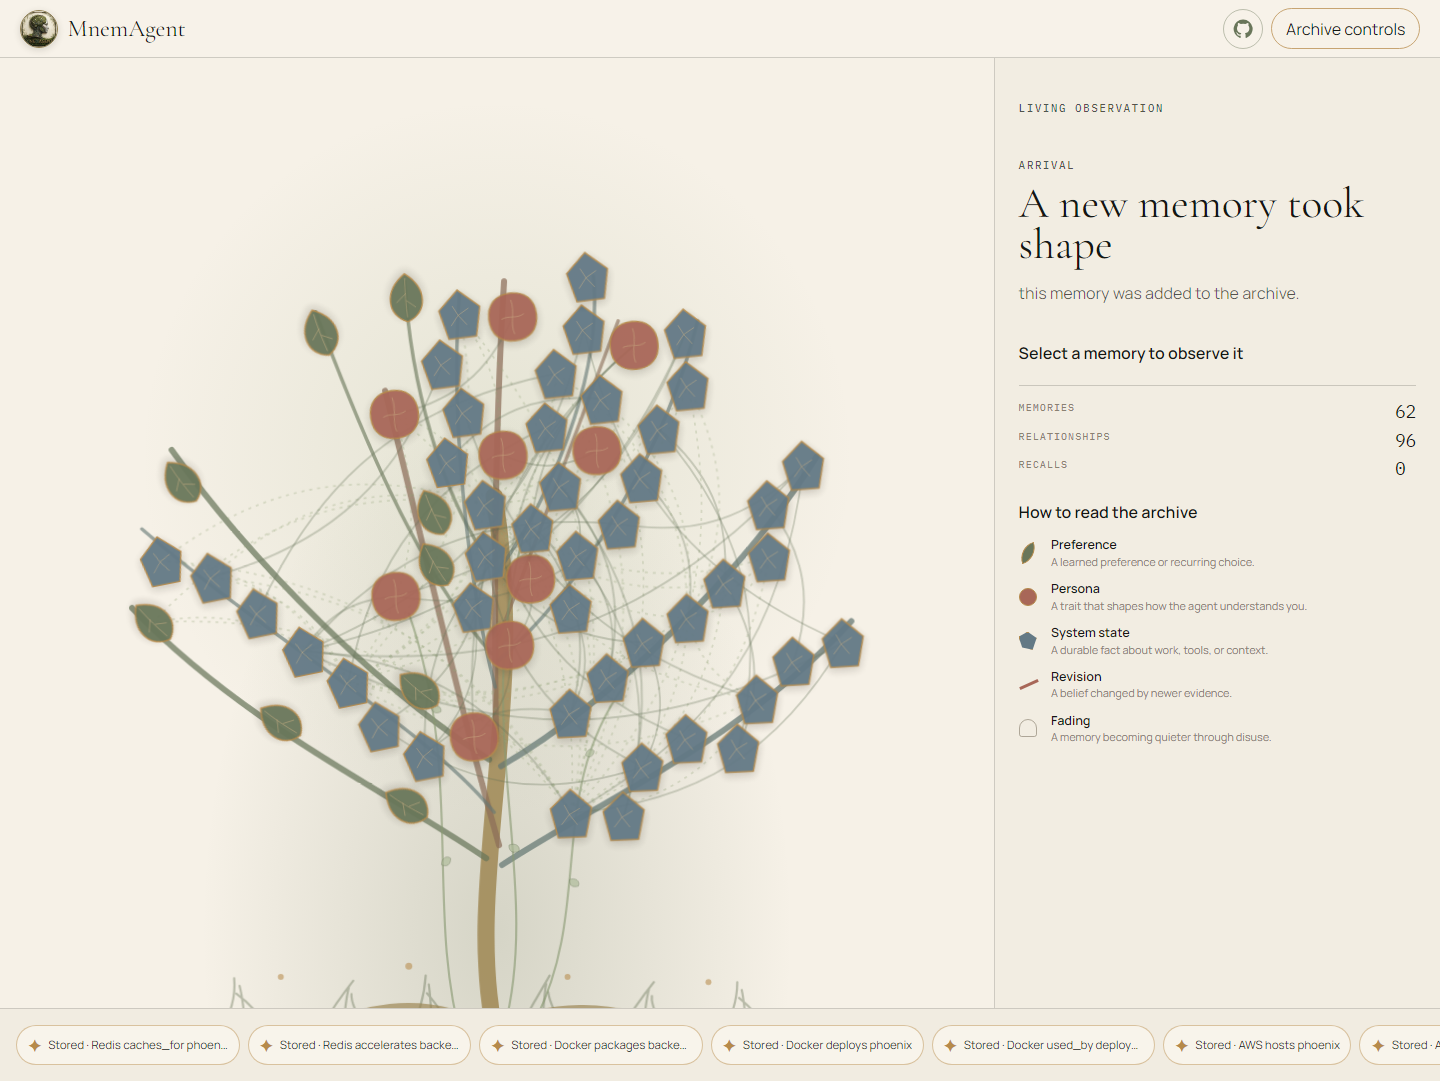
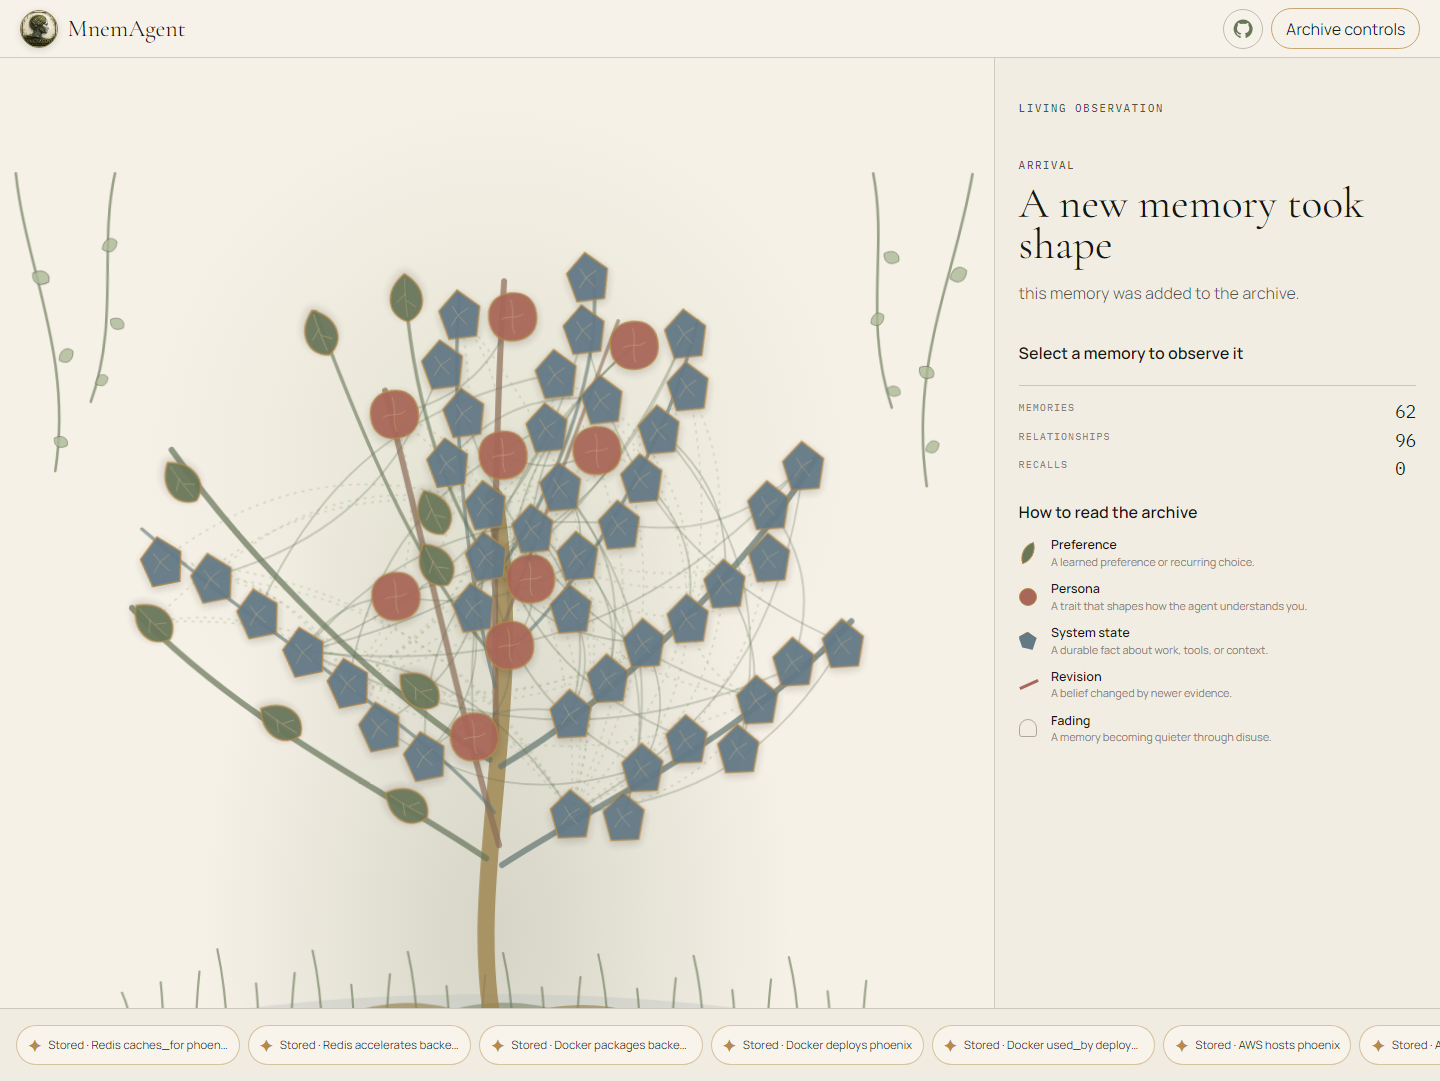
feat: compose serene forest memory focus

diff --git a/openclaw-harness/src/public/scripts/render/living-structure.js b/openclaw-harness/src/public/scripts/render/living-structure.js
@@ -1,85 +1,9 @@
 import { memoryAriaLabel, memoryFormPath, memoryVeinPath, shapeClass } from './memory-form.js';
-import { tendrilClass, tendrilStrokeWidth } from './tendril.js';
+import { renderForestScene } from './forest-scene.js';
+import { relationshipFocusState, tendrilClass, tendrilStrokeWidth } from './tendril.js';
 import { curvePath } from '../tree-geometry.js';
 
 const CATEGORY_COLOR = Object.freeze({ preference: 'var(--living-moss)', persona: 'var(--clay-rose)', system_state: 'var(--mineral-blue)' });
-const GROUND_GRASS = Object.freeze([
-  { id: 'grass-west', x: 250, y: 653, spread: 27, height: 42, lean: -12 },
-  { id: 'grass-left', x: 348, y: 649, spread: 23, height: 36, lean: 10 },
-  { id: 'grass-heart-left', x: 438, y: 657, spread: 25, height: 48, lean: -7 },
-  { id: 'grass-heart-right', x: 548, y: 654, spread: 26, height: 45, lean: 8 },
-  { id: 'grass-east', x: 650, y: 652, spread: 24, height: 38, lean: 11 },
-  { id: 'grass-far-east', x: 755, y: 657, spread: 28, height: 43, lean: -10 },
-]);
-const GROUND_MOSS = Object.freeze([
-  { id: 'moss-west', x: 214, y: 668, rx: 78, ry: 12 },
-  { id: 'moss-heart', x: 492, y: 668, rx: 122, ry: 15 },
-  { id: 'moss-east', x: 800, y: 670, rx: 88, ry: 13 },
-]);
-const SEED_HEADS = Object.freeze([
-  { id: 'seed-west', x: 285, y: 610, r: 3 },
-  { id: 'seed-heart-left', x: 414, y: 602, r: 3.5 },
-  { id: 'seed-heart-right', x: 574, y: 610, r: 3 },
-  { id: 'seed-east', x: 716, y: 614, r: 3 },
-]);
-const GARDEN_VINES = Object.freeze([
-  { id: 'vine-left', points: [[468, 660], [430, 560], [470, 455], [414, 334]] },
-  { id: 'vine-center', points: [[510, 650], [550, 535], [475, 420], [530, 274]] },
-  { id: 'vine-right', points: [[542, 642], [600, 555], [552, 470], [632, 388]] },
-]);
-const VINE_LEAVES = Object.freeze([
-  { id: 'leaf-left-low', x: 447, y: 525, angle: -36, scale: .75 },
-  { id: 'leaf-left-high', x: 437, y: 405, angle: 28, scale: .7 },
-  { id: 'leaf-center-low', x: 515, y: 510, angle: 32, scale: .78 },
-  { id: 'leaf-center-high', x: 508, y: 360, angle: -34, scale: .68 },
-  { id: 'leaf-right-low', x: 576, y: 536, angle: 37, scale: .74 },
-  { id: 'leaf-right-high', x: 592, y: 442, angle: -28, scale: .66 },
-]);
-
-function gardenBounds(tree = {}) {
-  return { width: Math.max(320, Number(tree.bounds?.width) || 1000), height: Math.max(480, Number(tree.bounds?.height) || 720) };
-}
-
-function gardenPoint(x, y, bounds) { return { x: x * bounds.width / 1000, y: y * bounds.height / 720 }; }
-
-function grassPath(grass, bounds) {
-  const base = gardenPoint(grass.x, grass.y, bounds);
-  const sx = bounds.width / 1000;
-  const sy = bounds.height / 720;
-  const spread = grass.spread * sx;
-  const height = grass.height * sy;
-  const lean = grass.lean * sx;
-  return `M${base.x - spread},${base.y} Q${base.x - spread * .35},${base.y - height * .52} ${base.x + lean},${base.y - height} M${base.x},${base.y} Q${base.x + lean * .25},${base.y - height * .62} ${base.x + lean * .55},${base.y - height * .86} M${base.x + spread},${base.y} Q${base.x + spread * .32},${base.y - height * .48} ${base.x + lean * .82},${base.y - height * .72}`;
-}
-
-function gardenCurvePath(vine, bounds) {
-  const [start, control1, control2, end] = vine.points.map(([x, y]) => gardenPoint(x, y, bounds));
-  return `M${start.x},${start.y} C${control1.x},${control1.y} ${control2.x},${control2.y} ${end.x},${end.y}`;
-}
-
-function leafTransform(leaf, bounds) {
-  const point = gardenPoint(leaf.x, leaf.y, bounds);
-  return `translate(${point.x},${point.y}) rotate(${leaf.angle}) scale(${leaf.scale})`;
-}
-
-function renderGarden(world, tree) {
-  const bounds = gardenBounds(tree);
-  const ground = world.select('g.groundcover');
-  ground.selectAll('path.ground-grass').data(GROUND_GRASS, d => d.id).join('path')
-    .attr('class', 'ground-grass').attr('d', d => grassPath(d, bounds)).attr('fill', 'none').attr('aria-hidden', 'true');
-  ground.selectAll('ellipse.ground-moss').data(GROUND_MOSS, d => d.id).join('ellipse')
-    .attr('class', 'ground-moss').attr('cx', d => gardenPoint(d.x, d.y, bounds).x).attr('cy', d => gardenPoint(d.x, d.y, bounds).y)
-    .attr('rx', d => d.rx * bounds.width / 1000).attr('ry', d => d.ry * bounds.height / 720).attr('aria-hidden', 'true');
-  ground.selectAll('circle.seed-head').data(SEED_HEADS, d => d.id).join('circle')
-    .attr('class', 'seed-head').attr('cx', d => gardenPoint(d.x, d.y, bounds).x).attr('cy', d => gardenPoint(d.x, d.y, bounds).y)
-    .attr('r', d => d.r * bounds.width / 1000).attr('aria-hidden', 'true');
-
-  const vines = world.select('g.vines');
-  vines.selectAll('path.garden-vine').data(GARDEN_VINES, d => d.id).join('path')
-    .attr('class', 'garden-vine').attr('d', d => gardenCurvePath(d, bounds)).attr('fill', 'none').attr('aria-hidden', 'true');
-  vines.selectAll('path.vine-leaf').data(VINE_LEAVES, d => d.id).join('path')
-    .attr('class', 'vine-leaf').attr('d', 'M0,0 C5,-7 13,-7 15,0 C10,7 4,7 0,0Z').attr('transform', d => leafTransform(d, bounds)).attr('aria-hidden', 'true');
-}
 
 function d3Global() {
   if (!globalThis.d3) throw new Error('D3 must be loaded before the Living Archive renderer');
@@ -90,7 +14,7 @@ export function createLivingStructure(svgElement, { onSelect = () => {}, onTrace
   const d3 = d3Global();
   const svg = d3.select(svgElement);
   const world = svg.select('#archiveWorld');
-  const layers = ['groundcover', 'roots', 'trunk', 'branches', 'vines', 'tendrils', 'memories', 'effects', 'annotations'];
+  const layers = ['canopy', 'water', 'groundcover', 'roots', 'trunk', 'branches', 'tendrils', 'memories', 'effects', 'annotations'];
   for (const name of layers) if (world.select(`g.${name}`).empty()) world.append('g').attr('class', name);
 
   function render(snapshot = {}, layout = { nodes: [], paths: [] }, viewState = {}) {
@@ -99,9 +23,10 @@ export function createLivingStructure(svgElement, { onSelect = () => {}, onTrace
     const nodeById = new Map(layout.nodes.map(node => [String(node.id), node]));
     const selectedId = viewState.selectedMemoryId == null ? null : String(viewState.selectedMemoryId);
     const related = new Set((viewState.relatedMemoryIds || []).map(String));
+    svg.classed('has-memory-focus', Boolean(selectedId));
 
     const tree = layout.tree || { root: { paths: [] }, trunk: null, branches: [] };
-    renderGarden(world, tree);
+    renderForestScene(world, tree);
     world.select('g.roots').selectAll('path.root-line').data(tree.root?.paths || [], d => d.id).join('path')
       .attr('class', 'root-line').attr('d', curvePath).attr('aria-hidden', 'true');
     world.select('g.trunk').selectAll('path.trunk-line').data(tree.trunk ? [tree.trunk] : [], d => d.id).join('path')
@@ -115,7 +40,7 @@ export function createLivingStructure(svgElement, { onSelect = () => {}, onTrace
       enter => enter.append('path'),
       update => update,
       exit => exit.remove(),
-    ).attr('class', d => tendrilClass(d, related.has(String(d.source)) || related.has(String(d.target)) ? 'active' : 'quiet'))
+    ).attr('class', d => tendrilClass(d, relationshipFocusState(d, selectedId)))
       .attr('d', d => d.d)
       .attr('stroke-width', d => tendrilStrokeWidth(d.weight))
       .attr('fill', 'none')

diff --git a/openclaw-harness/src/public/scripts/render/forest-scene.js b/openclaw-harness/src/public/scripts/render/forest-scene.js
@@ -1,0 +1,85 @@
+const HANGING_VINES = Object.freeze([
+  { id: 'canopy-left-outer', duration: 10.5, delay: -3.2, points: [[18,0],[28,72],[76,138],[58,226]], leaves: [{id:'lo-1',x:35,y:76,angle:28,scale:1.15},{id:'lo-2',x:62,y:142,angle:-34,scale:1.04},{id:'lo-3',x:57,y:201,angle:31,scale:.94}] },
+  { id: 'canopy-left-inner', duration: 8.7, delay: -5.1, points: [[118,0],[104,56],[128,112],[102,174]], leaves: [{id:'li-1',x:108,y:58,angle:-30,scale:1.04},{id:'li-2',x:119,y:111,angle:32,scale:.96},{id:'li-3',x:106,y:160,angle:-28,scale:.88}] },
+  { id: 'canopy-right-inner', duration: 9.4, delay: -1.8, points: [[882,0],[896,58],[870,112],[898,178]], leaves: [{id:'ri-1',x:892,y:61,angle:28,scale:1.04},{id:'ri-2',x:878,y:114,angle:-32,scale:.96},{id:'ri-3',x:894,y:163,angle:28,scale:.88}] },
+  { id: 'canopy-right-outer', duration: 11.2, delay: -6.4, points: [[982,0],[968,78],[924,145],[946,238]], leaves: [{id:'ro-1',x:963,y:80,angle:-28,scale:1.15},{id:'ro-2',x:935,y:148,angle:34,scale:1.04},{id:'ro-3',x:944,y:211,angle:-31,scale:.94}] },
+]);
+
+const GRASS_BLADES = Object.freeze(Array.from({ length: 24 }, (_, index) => ({
+  id: `blade-${index}`,
+  x: 135 + index * 32,
+  y: 652 + (index % 3) * 3,
+  height: 30 + (index * 11 % 34),
+  lean: -10 + (index * 7 % 21),
+})));
+
+const MOSS_PATCHES = Object.freeze([
+  { id: 'moss-left', x: 248, y: 653, rx: 96, ry: 19 },
+  { id: 'moss-heart', x: 500, y: 657, rx: 148, ry: 23 },
+  { id: 'moss-right', x: 760, y: 653, rx: 100, ry: 19 },
+]);
+
+function sceneBounds(tree = {}) {
+  return { width: Math.max(320, Number(tree.bounds?.width) || 1000), height: Math.max(480, Number(tree.bounds?.height) || 720) };
+}
+
+function point(x, y, bounds) { return { x: x * bounds.width / 1000, y: y * bounds.height / 720 }; }
+
+function curvePath(points, bounds) {
+  const [start, control1, control2, end] = points.map(([x, y]) => point(x, y, bounds));
+  return `M${start.x},${start.y} C${control1.x},${control1.y} ${control2.x},${control2.y} ${end.x},${end.y}`;
+}
+
+function grassBladePath(blade, bounds) {
+  const base = point(blade.x, blade.y, bounds);
+  const tip = point(blade.x + blade.lean, blade.y - blade.height, bounds);
+  return `M${base.x},${base.y} Q${base.x + (tip.x - base.x) * .18},${base.y - (base.y - tip.y) * .55} ${tip.x},${tip.y}`;
+}
+
+function leafTransform(leaf, bounds) {
+  const at = point(leaf.x, leaf.y, bounds);
+  const scale = leaf.scale * Math.min(bounds.width / 1000, bounds.height / 720);
+  return `translate(${at.x},${at.y}) rotate(${leaf.angle}) scale(${scale})`;
+}
+
+export function renderForestScene(world, tree = {}) {
+  const bounds = sceneBounds(tree);
+  const canopy = world.select('g.canopy');
+  const vines = canopy.selectAll('g.hanging-vine').data(HANGING_VINES, d => d.id).join(
+    enter => {
+      const group = enter.append('g').attr('class', 'hanging-vine');
+      group.append('path').attr('class', 'hanging-vine-hit');
+      group.append('path').attr('class', 'hanging-vine-stem');
+      return group;
+    },
+    update => update,
+    exit => exit.remove(),
+  ).attr('data-vine-id', d => d.id).attr('aria-hidden', 'true')
+    .style('--vine-duration', d => `${d.duration}s`).style('--vine-delay', d => `${d.delay}s`);
+  vines.select('path.hanging-vine-hit').attr('d', d => curvePath(d.points, bounds)).attr('fill', 'none');
+  vines.select('path.hanging-vine-stem').attr('d', d => curvePath(d.points, bounds)).attr('fill', 'none');
+  vines.selectAll('path.hanging-leaf').data(d => d.leaves, d => d.id).join('path')
+    .attr('class', 'hanging-leaf').attr('d', 'M0,0 C5,-8 14,-8 16,0 C11,8 4,8 0,0Z')
+    .attr('transform', d => leafTransform(d, bounds));
+
+  const water = world.select('g.water');
+  const waterPath = `M${point(82,662,bounds).x},${point(82,662,bounds).y} C${point(265,610,bounds).x},${point(265,610,bounds).y} ${point(730,610,bounds).x},${point(730,610,bounds).y} ${point(920,662,bounds).x},${point(920,662,bounds).y} C${point(748,700,bounds).x},${point(748,700,bounds).y} ${point(252,700,bounds).x},${point(252,700,bounds).y} ${point(82,662,bounds).x},${point(82,662,bounds).y}Z`;
+  water.selectAll('path.forest-water').data([{ id:'reflecting-pool', d:waterPath }], d => d.id).join('path')
+    .attr('class', 'forest-water').attr('d', d => d.d).attr('aria-hidden', 'true');
+  const ripples = [
+    { id:'ripple-left', d:`M${point(170,650,bounds).x},${point(170,650,bounds).y} Q${point(330,636,bounds).x},${point(330,636,bounds).y} ${point(470,650,bounds).x},${point(470,650,bounds).y}` },
+    { id:'ripple-right', d:`M${point(530,665,bounds).x},${point(530,665,bounds).y} Q${point(680,650,bounds).x},${point(680,650,bounds).y} ${point(830,665,bounds).x},${point(830,665,bounds).y}` },
+  ];
+  water.selectAll('path.forest-ripple').data(ripples, d => d.id).join('path')
+    .attr('class', 'forest-ripple').attr('d', d => d.d).attr('fill', 'none').attr('aria-hidden', 'true');
+
+  const ground = world.select('g.groundcover');
+  const bankPath = `M${point(72,667,bounds).x},${point(72,667,bounds).y} Q${point(245,612,bounds).x},${point(245,612,bounds).y} ${point(400,654,bounds).x},${point(400,654,bounds).y} Q${point(505,606,bounds).x},${point(505,606,bounds).y} ${point(620,652,bounds).x},${point(620,652,bounds).y} Q${point(790,616,bounds).x},${point(790,616,bounds).y} ${point(928,668,bounds).x},${point(928,668,bounds).y} L${point(928,720,bounds).x},${point(928,720,bounds).y} L${point(72,720,bounds).x},${point(72,720,bounds).y}Z`;
+  ground.selectAll('path.grass-bank').data([{ id:'grass-bank', d:bankPath }], d => d.id).join('path')
+    .attr('class', 'grass-bank').attr('d', d => d.d).attr('aria-hidden', 'true');
+  ground.selectAll('path.grass-blade').data(GRASS_BLADES, d => d.id).join('path')
+    .attr('class', 'grass-blade').attr('d', d => grassBladePath(d, bounds)).attr('fill', 'none').attr('aria-hidden', 'true');
+  ground.selectAll('ellipse.forest-moss').data(MOSS_PATCHES, d => d.id).join('ellipse')
+    .attr('class', 'forest-moss').attr('cx', d => point(d.x,d.y,bounds).x).attr('cy', d => point(d.x,d.y,bounds).y)
+    .attr('rx', d => d.rx * bounds.width / 1000).attr('ry', d => d.ry * bounds.height / 720).attr('aria-hidden', 'true');
+}

diff --git a/openclaw-harness/src/public/styles/archive-stage.css b/openclaw-harness/src/public/styles/archive-stage.css
@@ -8,12 +8,16 @@
 .archive-stage .branch-preference { stroke: var(--living-moss); }
 .archive-stage .branch-persona { stroke: color-mix(in srgb, var(--clay-rose) 55%, var(--living-moss)); }
 .archive-stage .branch-system_state { stroke: color-mix(in srgb, var(--mineral-blue) 60%, var(--living-moss)); }
-.archive-stage .ground-grass, .archive-stage .ground-moss, .archive-stage .seed-head, .archive-stage .garden-vine, .archive-stage .vine-leaf { pointer-events: none; }
-.archive-stage .ground-grass { stroke: var(--living-moss); stroke-width: 2.2; stroke-linecap: round; opacity: .42; }
-.archive-stage .ground-moss { fill: color-mix(in srgb, var(--living-moss) 40%, transparent); opacity: .24; }
-.archive-stage .seed-head { fill: var(--antique-brass); opacity: .56; }
-.archive-stage .garden-vine { stroke: color-mix(in srgb, var(--lichen-green) 74%, var(--living-moss)); stroke-width: 2.15; stroke-linecap: round; opacity: .62; }
-.archive-stage .vine-leaf { fill: color-mix(in srgb, var(--lichen-green) 74%, var(--bone-white)); stroke: var(--living-moss); stroke-width: .7; opacity: .68; }
+.archive-stage .forest-water, .archive-stage .forest-ripple, .archive-stage .grass-bank, .archive-stage .grass-blade, .archive-stage .forest-moss { pointer-events: none; }
+.archive-stage .forest-water { fill: color-mix(in srgb, var(--mineral-blue) 38%, var(--bone-white)); opacity: .4; }
+.archive-stage .forest-ripple { stroke: color-mix(in srgb, var(--mineral-blue) 54%, var(--bone-white)); stroke-width: 1.15; stroke-linecap: round; opacity: .38; }
+.archive-stage .grass-bank { fill: color-mix(in srgb, var(--living-moss) 68%, var(--lichen-green)); opacity: .58; }
+.archive-stage .grass-blade { stroke: color-mix(in srgb, var(--living-moss) 82%, var(--lichen-green)); stroke-width: 2.15; stroke-linecap: round; opacity: .68; }
+.archive-stage .forest-moss { fill: color-mix(in srgb, var(--living-moss) 58%, var(--lichen-green)); opacity: .36; }
+.archive-stage .hanging-vine { transform-box: fill-box; transform-origin: top center; }
+.archive-stage .hanging-vine-hit { fill: none; stroke: transparent; stroke-width: 26; pointer-events: stroke; cursor: grab; }
+.archive-stage .hanging-vine-stem { stroke: color-mix(in srgb, var(--living-moss) 76%, var(--lichen-green)); stroke-width: 2.6; stroke-linecap: round; pointer-events: none; opacity: .72; }
+.archive-stage .hanging-leaf { fill: color-mix(in srgb, var(--lichen-green) 76%, var(--bone-white)); stroke: var(--living-moss); stroke-width: .8; pointer-events: none; opacity: .78; }
 .archive-stage .tendril { stroke: var(--antique-brass); opacity: .3; transition: opacity 180ms var(--ease-organic), stroke-width 180ms var(--ease-organic); }
 .archive-stage .tendril-cluster { stroke: var(--living-moss); }
 .archive-stage .tendril-concept { stroke: var(--lichen-green); stroke-dasharray: 3 5; }
@@ -31,4 +35,11 @@
 .archive-stage .memory-vein { stroke: color-mix(in srgb, var(--warm-parchment) 42%, var(--antique-brass)); stroke-width: .8; opacity: .55; pointer-events: none; }
 .archive-stage .memory-focus-ring { pointer-events: none; }
 .archive-stage .memory-form.is-selected .memory-focus-ring { opacity: .85; stroke-width: 1.5; stroke-dasharray: 2 4; }
+.archive-stage svg.has-memory-focus g.canopy, .archive-stage svg.has-memory-focus g.water, .archive-stage svg.has-memory-focus g.groundcover, .archive-stage svg.has-memory-focus g.roots, .archive-stage svg.has-memory-focus g.trunk, .archive-stage svg.has-memory-focus g.branches { opacity: .18; }
+.archive-stage svg.has-memory-focus .memory-form.is-quiet { opacity: .06; }
+.archive-stage svg.has-memory-focus .memory-form.is-selected, .archive-stage svg.has-memory-focus .memory-form.is-related { opacity: 1; }
+.archive-stage svg.has-memory-focus .tendril.is-quiet { opacity: .03; }
+.archive-stage svg.has-memory-focus .tendril.is-active { opacity: .92; }
+.archive-stage svg.has-memory-focus .memory-form.is-selected .memory-focus-ring { stroke: var(--antique-brass); }
+.archive-stage g.canopy, .archive-stage g.water, .archive-stage g.groundcover, .archive-stage g.roots, .archive-stage g.trunk, .archive-stage g.branches { transition: opacity 220ms var(--ease-organic); }
 @media (prefers-reduced-motion: reduce) { .archive-stage .memory-form, .archive-stage .memory-interaction, .archive-stage .tendril { transition: none; } .archive-stage .memory-form:hover .memory-interaction, .archive-stage .memory-form:focus-visible .memory-interaction { transform: rotate(var(--memory-angle, 0deg)); } }

diff --git a/openclaw-harness/src/public/scripts/render/tendril.js b/openclaw-harness/src/public/scripts/render/tendril.js
@@ -9,3 +9,9 @@ export function tendrilClass(relationship = {}, state = 'quiet') {
 export function tendrilStrokeWidth(weight = 0.5) {
   return 0.8 + Math.max(0, Math.min(1, Number(weight) || 0)) * 1.8;
 }
+
+export function relationshipFocusState(relationship = {}, focusedId = null) {
+  if (focusedId == null) return 'quiet';
+  const id = String(focusedId);
+  return String(relationship.source) === id || String(relationship.target) === id ? 'active' : 'quiet';
+}

diff --git a/openclaw-harness/src/public/styles/motion.css b/openclaw-harness/src/public/styles/motion.css
@@ -4,10 +4,14 @@
 .archive-stage.phase-opening-annotations .annotations { animation: annotation-arrive 2s var(--ease-organic) both; }
 .archive-stage.phase-recall .tendril.is-active { animation: tendril-pulse .9s var(--ease-organic) both; }
 .archive-stage.phase-revision .memory-form.is-selected .memory-interaction { animation: revision-graft 1.4s var(--ease-organic) both; }
+.archive-stage .hanging-vine { animation: vine-sway var(--vine-duration, 9s) ease-in-out var(--vine-delay, 0s) infinite alternate; }
+.archive-stage .hanging-vine:hover { animation-name: vine-sway-hover; animation-duration: 3.8s; }
 @keyframes archive-breathe { 0%,100% { transform: scale(1); } 50% { transform: scale(1.012); } }
 @keyframes skeleton-resolve { from { opacity: .1; stroke-dashoffset: 80; } to { opacity: .8; stroke-dashoffset: 0; } }
 @keyframes branch-unfurl { from { opacity: 0; transform: scale(.96); } to { opacity: 1; transform: scale(1); } }
 @keyframes annotation-arrive { from { opacity: 0; transform: translateY(8px); } to { opacity: 1; transform: translateY(0); } }
 @keyframes tendril-pulse { 0% { stroke-width: 1; opacity: .3; } 45% { stroke-width: 3; opacity: .95; } 100% { stroke-width: 1.5; opacity: .7; } }
 @keyframes revision-graft { 0% { transform: scale(.92); opacity: .4; } 50% { transform: scale(1.16); } 100% { transform: scale(1); opacity: 1; } }
-@media (prefers-reduced-motion: reduce) { .archive-stage[data-ambient="breathing"] #archiveWorld, .archive-stage[class*="phase-"], .archive-stage .tendril.is-active, .archive-stage .memory-interaction { animation: none; } }
+@keyframes vine-sway { from { transform: rotate(-2deg); } to { transform: rotate(2.5deg); } }
+@keyframes vine-sway-hover { from { transform: rotate(-5deg); } to { transform: rotate(5deg); } }
+@media (prefers-reduced-motion: reduce) { .archive-stage[data-ambient="breathing"] #archiveWorld, .archive-stage[class*="phase-"], .archive-stage .tendril.is-active, .archive-stage .memory-interaction, .archive-stage .hanging-vine { animation: none; } }